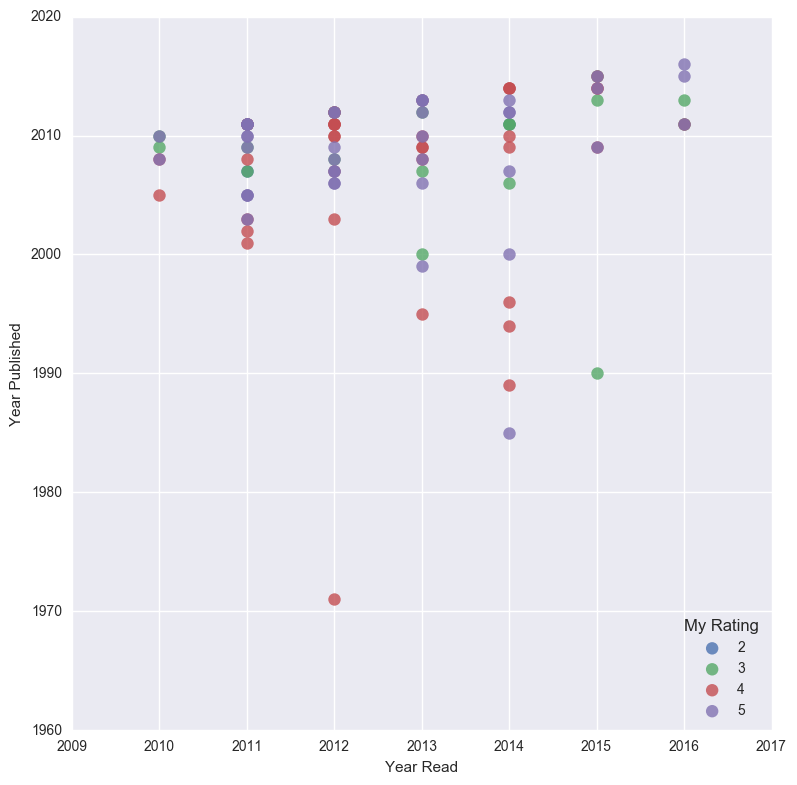
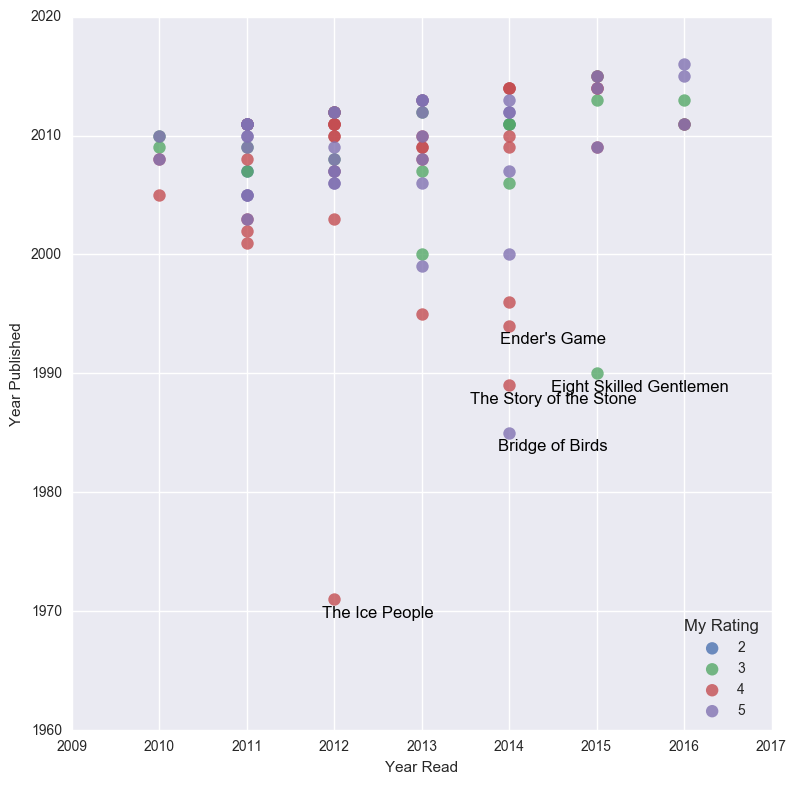
more labels added

diff --git a/explore.py b/explore.py
@@ -68,6 +68,13 @@ g.savefig('figures/rating_comparison.png')
 # Year read vs published
 g = sns.lmplot(x="year_read", y="publication_year", hue='rating', data=df, fit_reg=False, size=8,
                legend=False, scatter_kws={'s': 80})
+
+# Labels on old books
+year_books = df[(df['publication_year'] < 1995) & (df['year_read'].notnull())]
+for x, y, t in zip(year_books['year_read'].tolist(), year_books['publication_year'].tolist(),
+                   year_books['title'].map(lambda x: x.split('(')[0].strip()).tolist()):
+    plt.text(x+0.5, y-0.5, t, color='k', ha='center', va='top')
+
 g.set_xlabels('Year Read')
 g.set_ylabels('Year Published')
 g.ax.get_xaxis().get_major_formatter().set_useOffset(False)
@@ -80,7 +87,6 @@ g = sns.lmplot(x="number_pages", y="timespan", data=df, size=8, scatter_kws={'s'
 g = (g.set(xlim=(-10, 1250), ylim=(-10, 120))
      .set_xlabels('Number of Pages')
      .set_ylabels('Days to Read'))
-
 # Labels on longest to read
 longest = df[(df['timespan'] > 30) & (df['number_pages'].notnull())]
 for x, y, t in zip(longest['number_pages'].tolist(), longest['timespan'].tolist(),
@@ -89,8 +95,10 @@ for x, y, t in zip(longest['number_pages'].tolist(), longest['timespan'].tolist(
 
 g.savefig('figures/reading_rate.png')
 
+
 # Shortest reads (some may be in error)
 df[df['timespan'] < 2]
+
 
 # Reading rate over time
 df['rate'] = df['number_pages']/df['timespan']
